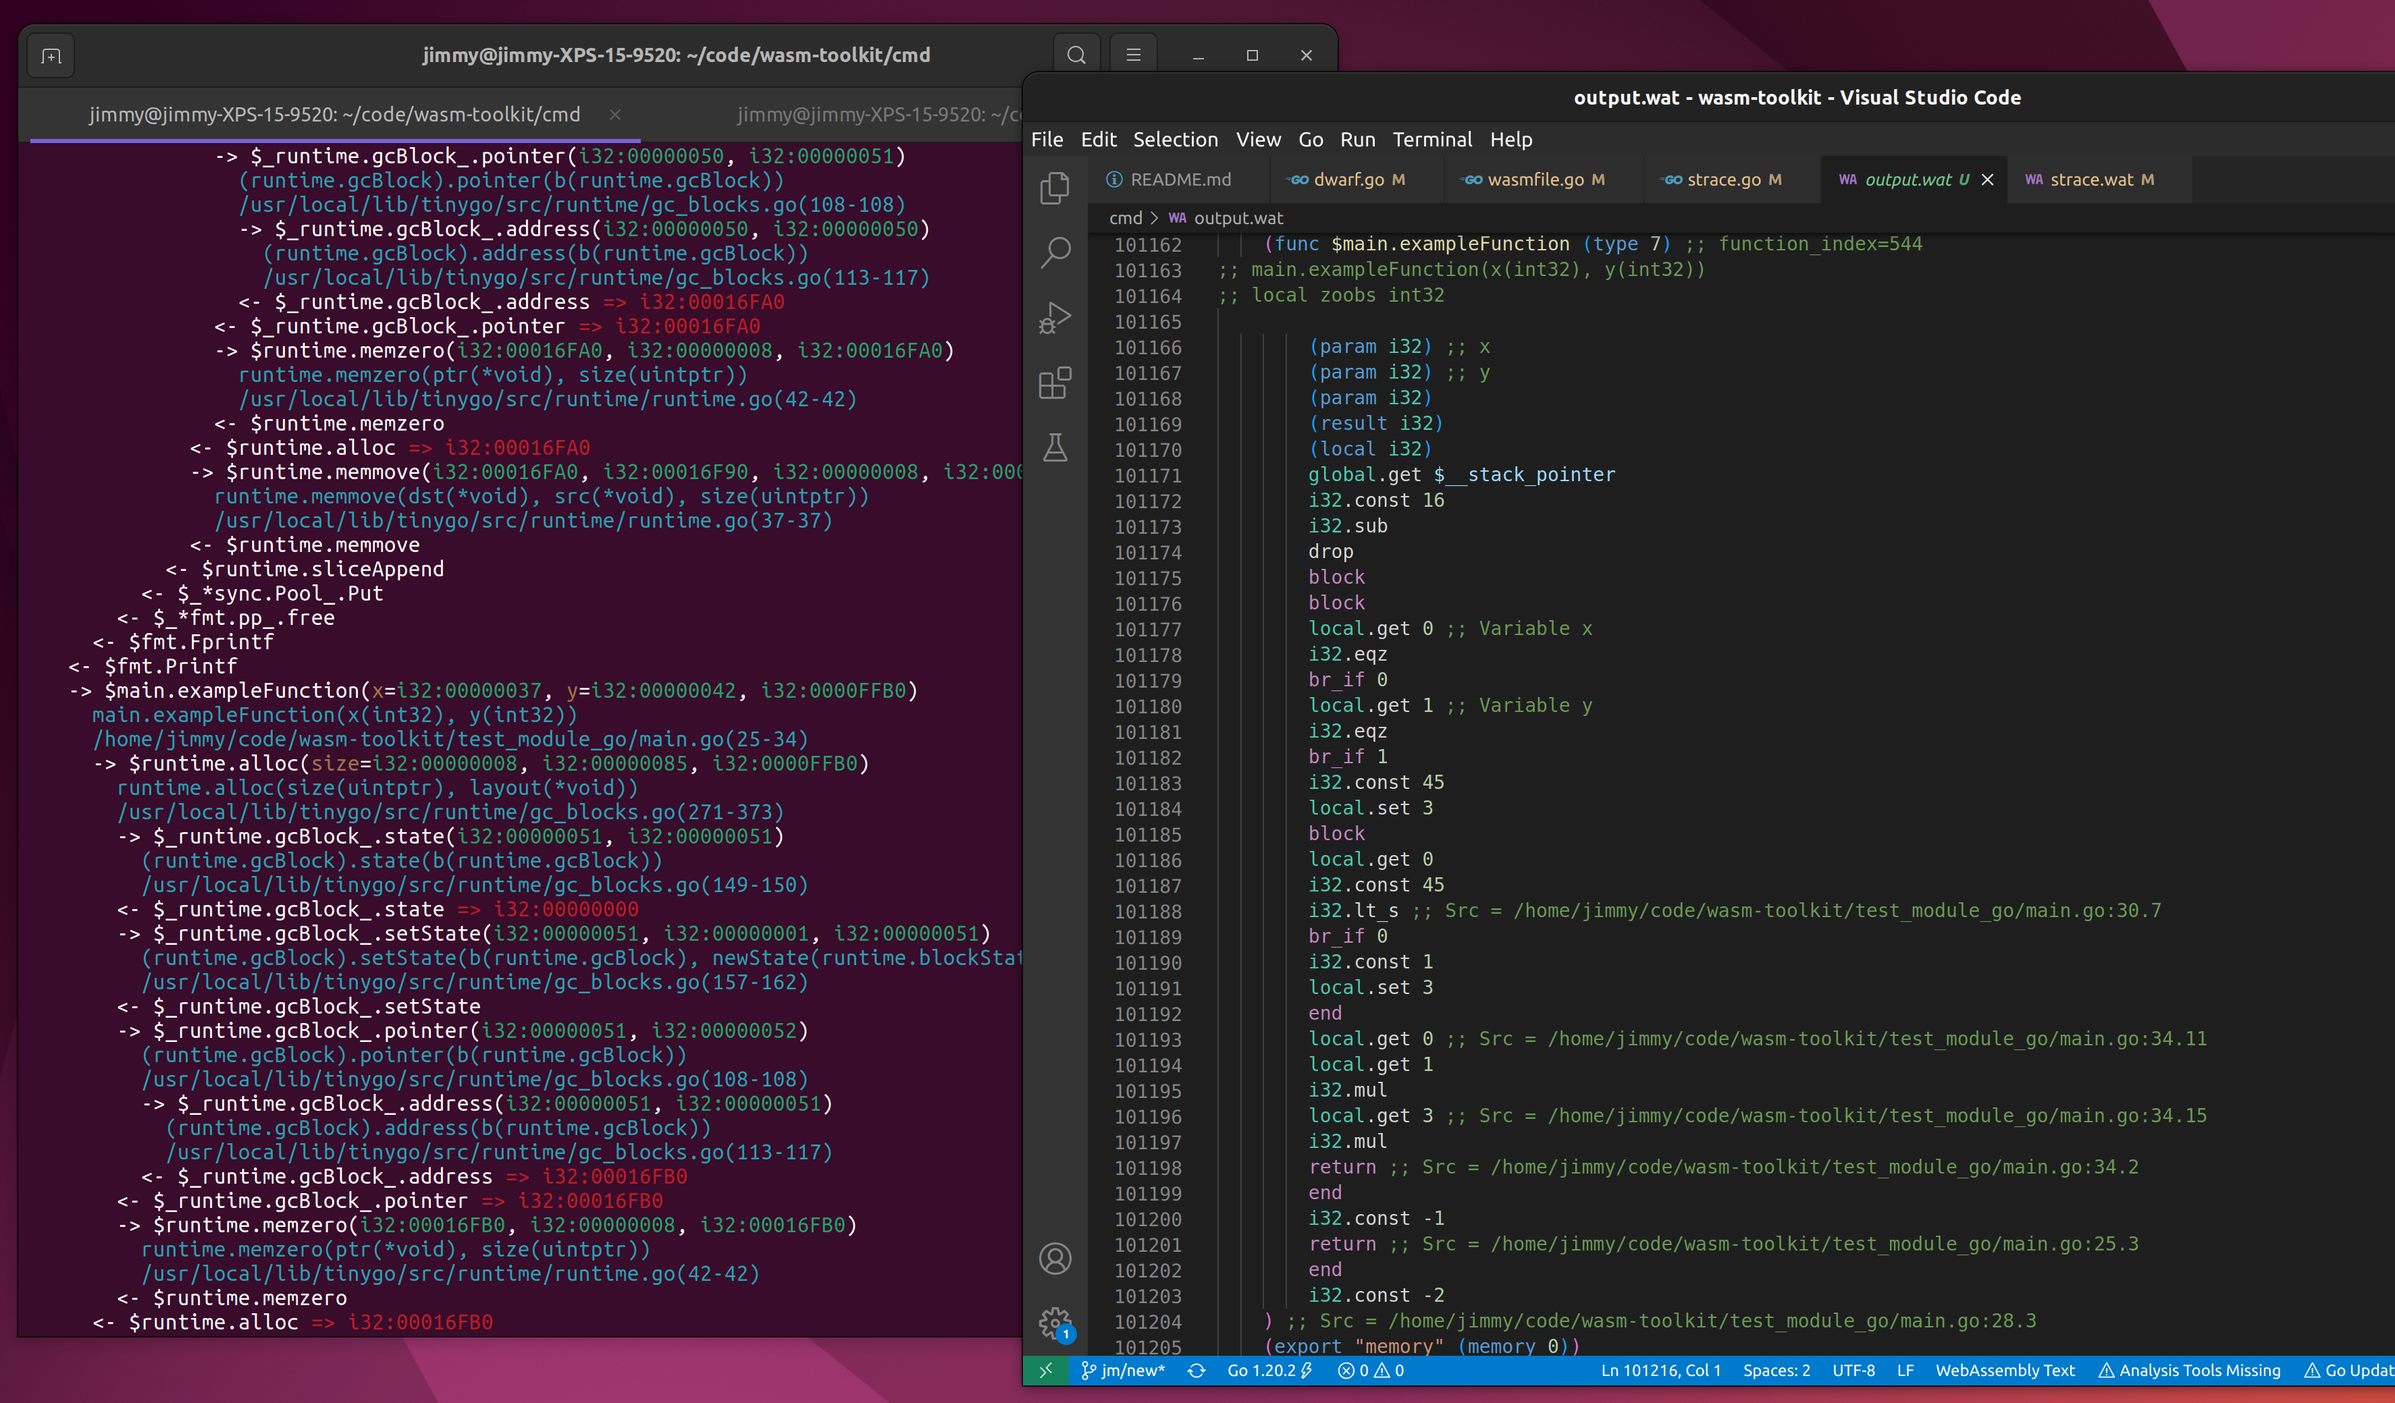
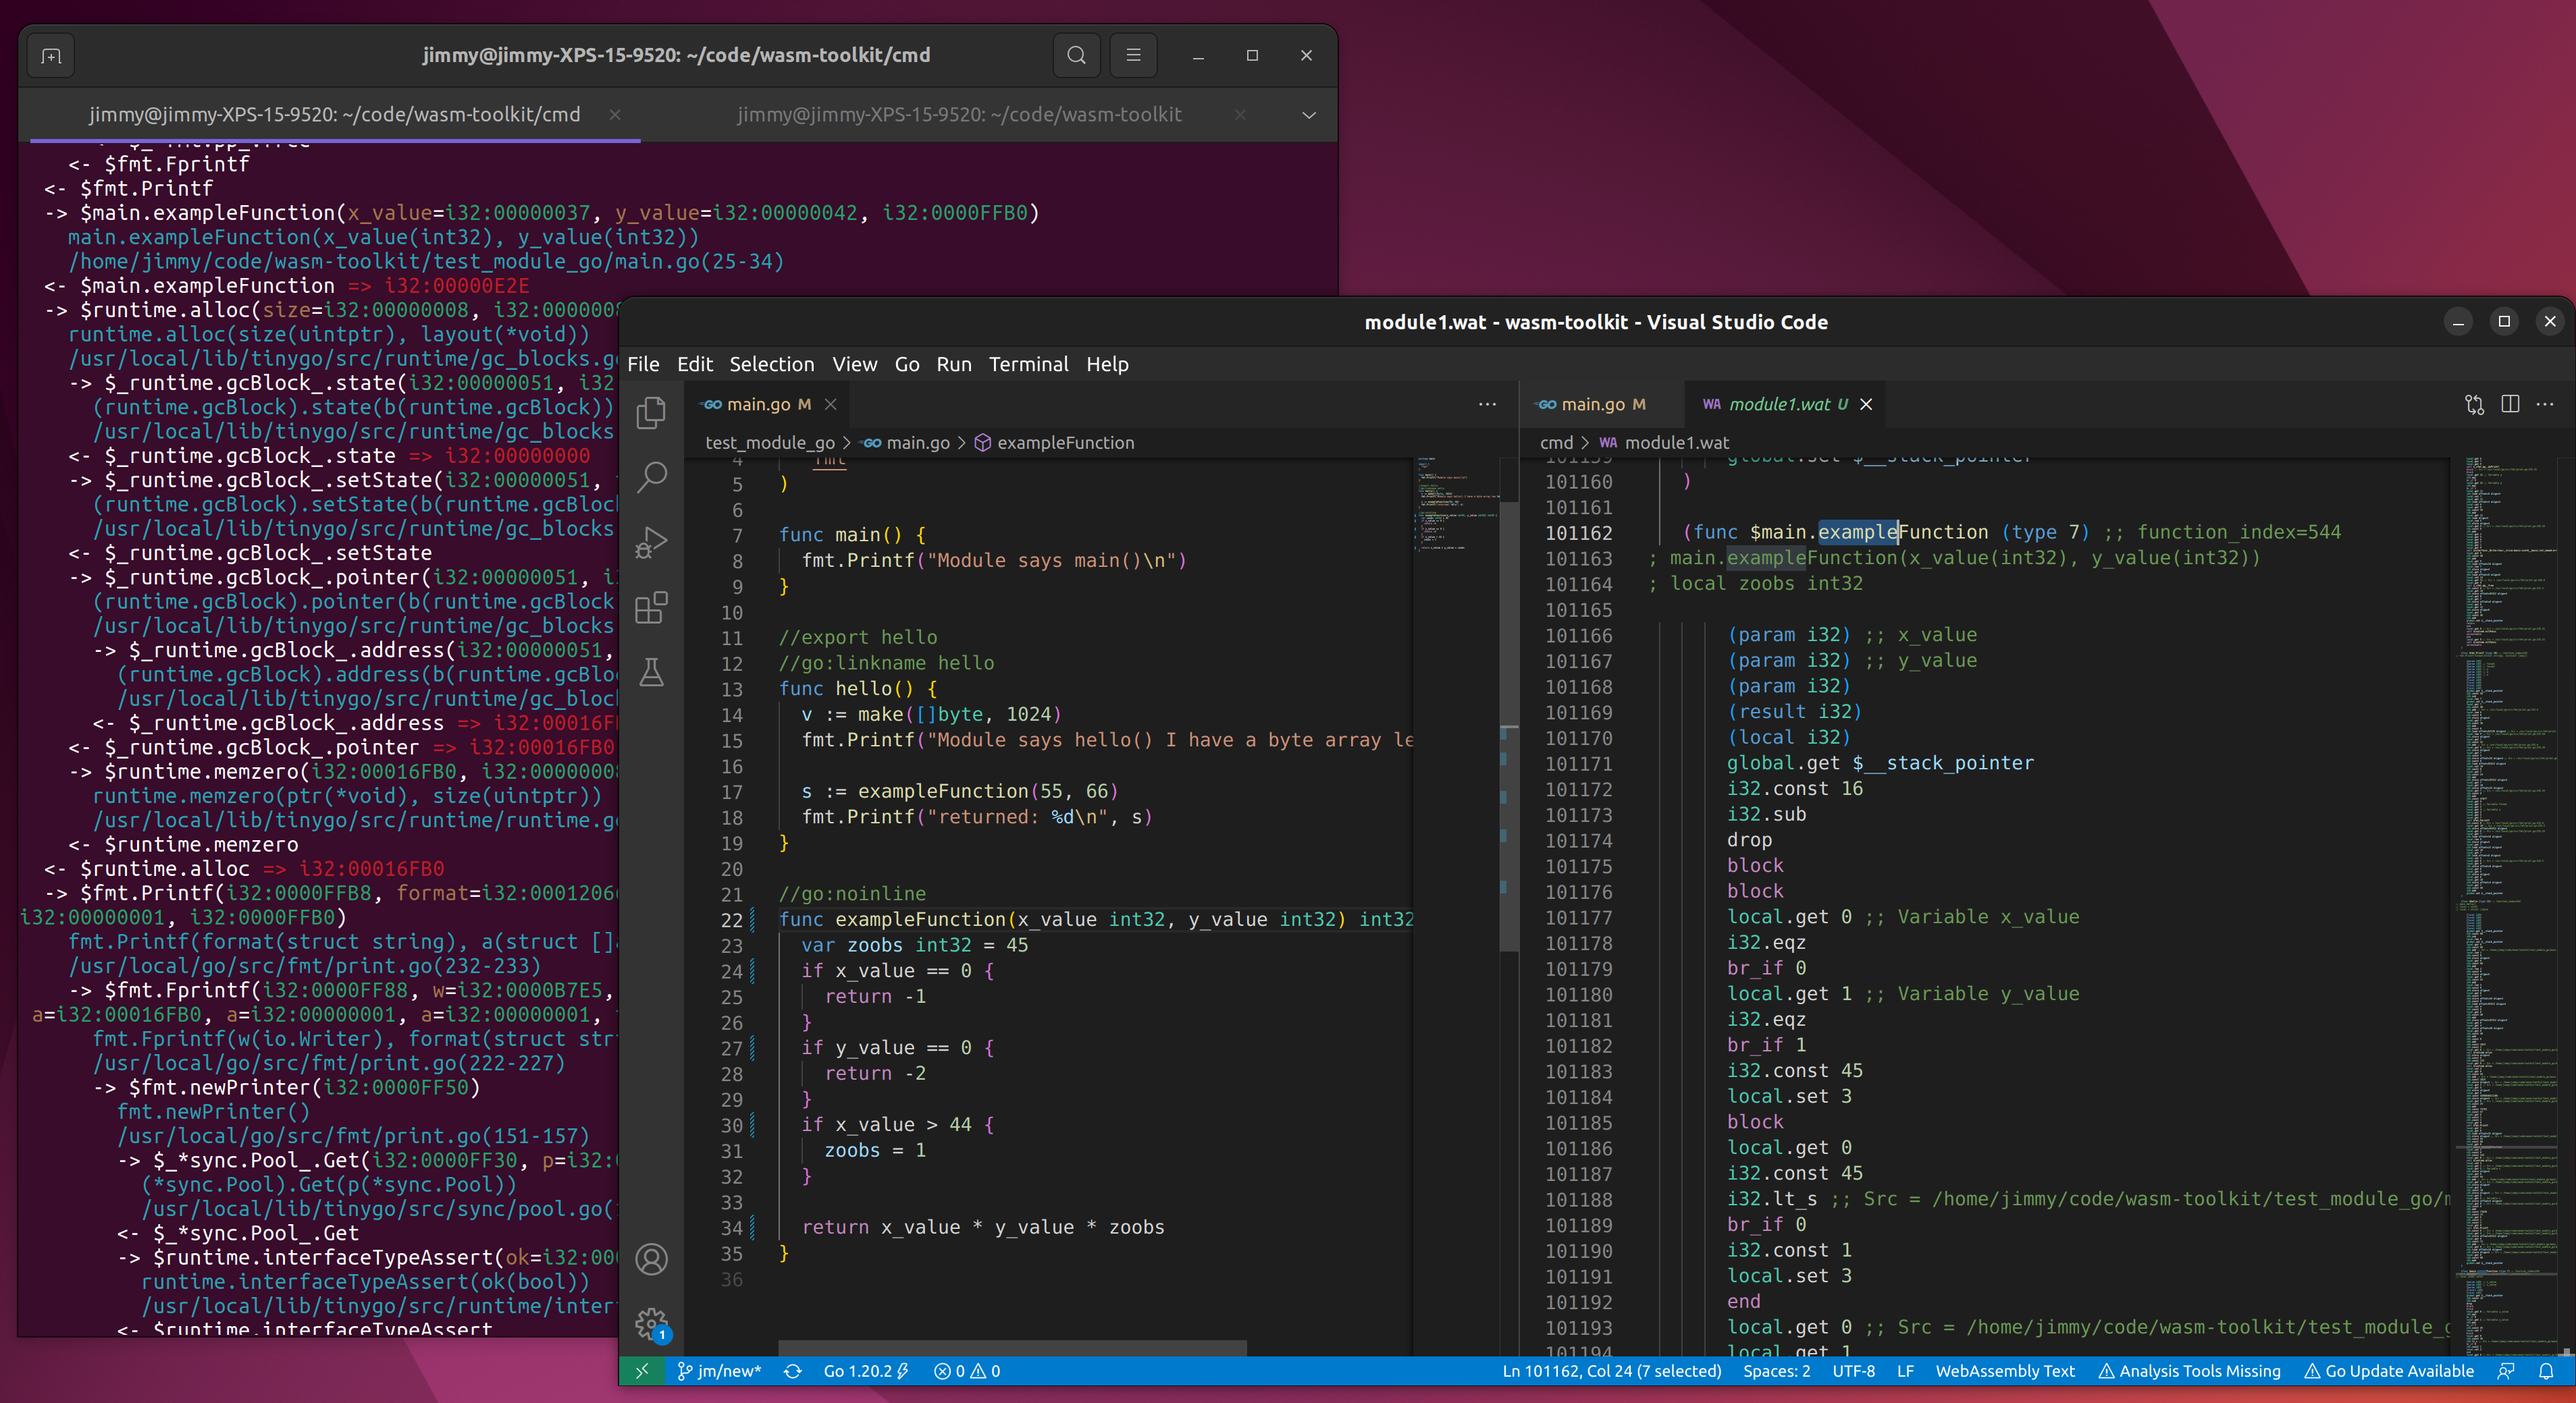
Update image

diff --git a/wasmfile/wasmfile.go b/wasmfile/wasmfile.go
@@ -453,7 +453,13 @@ func (ce *CodeEntry) ReplaceInstr(wf *WasmFile, from string, to string) error {
 	for _, e := range ce.Expression {
 		var buf bytes.Buffer
 		e.EncodeWat(&buf, "", wf)
-		if strings.Trim(buf.String(), Whitespace) == from {
+		cd := buf.String()
+		cend := strings.Index(cd, ";;")
+		if cend != -1 {
+			cd = cd[:cend]
+		}
+
+		if strings.Trim(cd, Whitespace) == from {
 			// Replace it!
 			for _, ne := range newex {
 				adjustedExpression = append(adjustedExpression, ne)

diff --git a/test_module_go/main.go b/test_module_go/main.go
@@ -19,17 +19,17 @@ func hello() {
 }
 
 //go:noinline
-func exampleFunction(x int32, y int32) int32 {
+func exampleFunction(x_value int32, y_value int32) int32 {
 	var zoobs int32 = 45
-	if x == 0 {
+	if x_value == 0 {
 		return -1
 	}
-	if y == 0 {
+	if y_value == 0 {
 		return -2
 	}
-	if x > 44 {
+	if x_value > 44 {
 		zoobs = 1
 	}
 
-	return x * y * zoobs
+	return x_value * y_value * zoobs
 }
